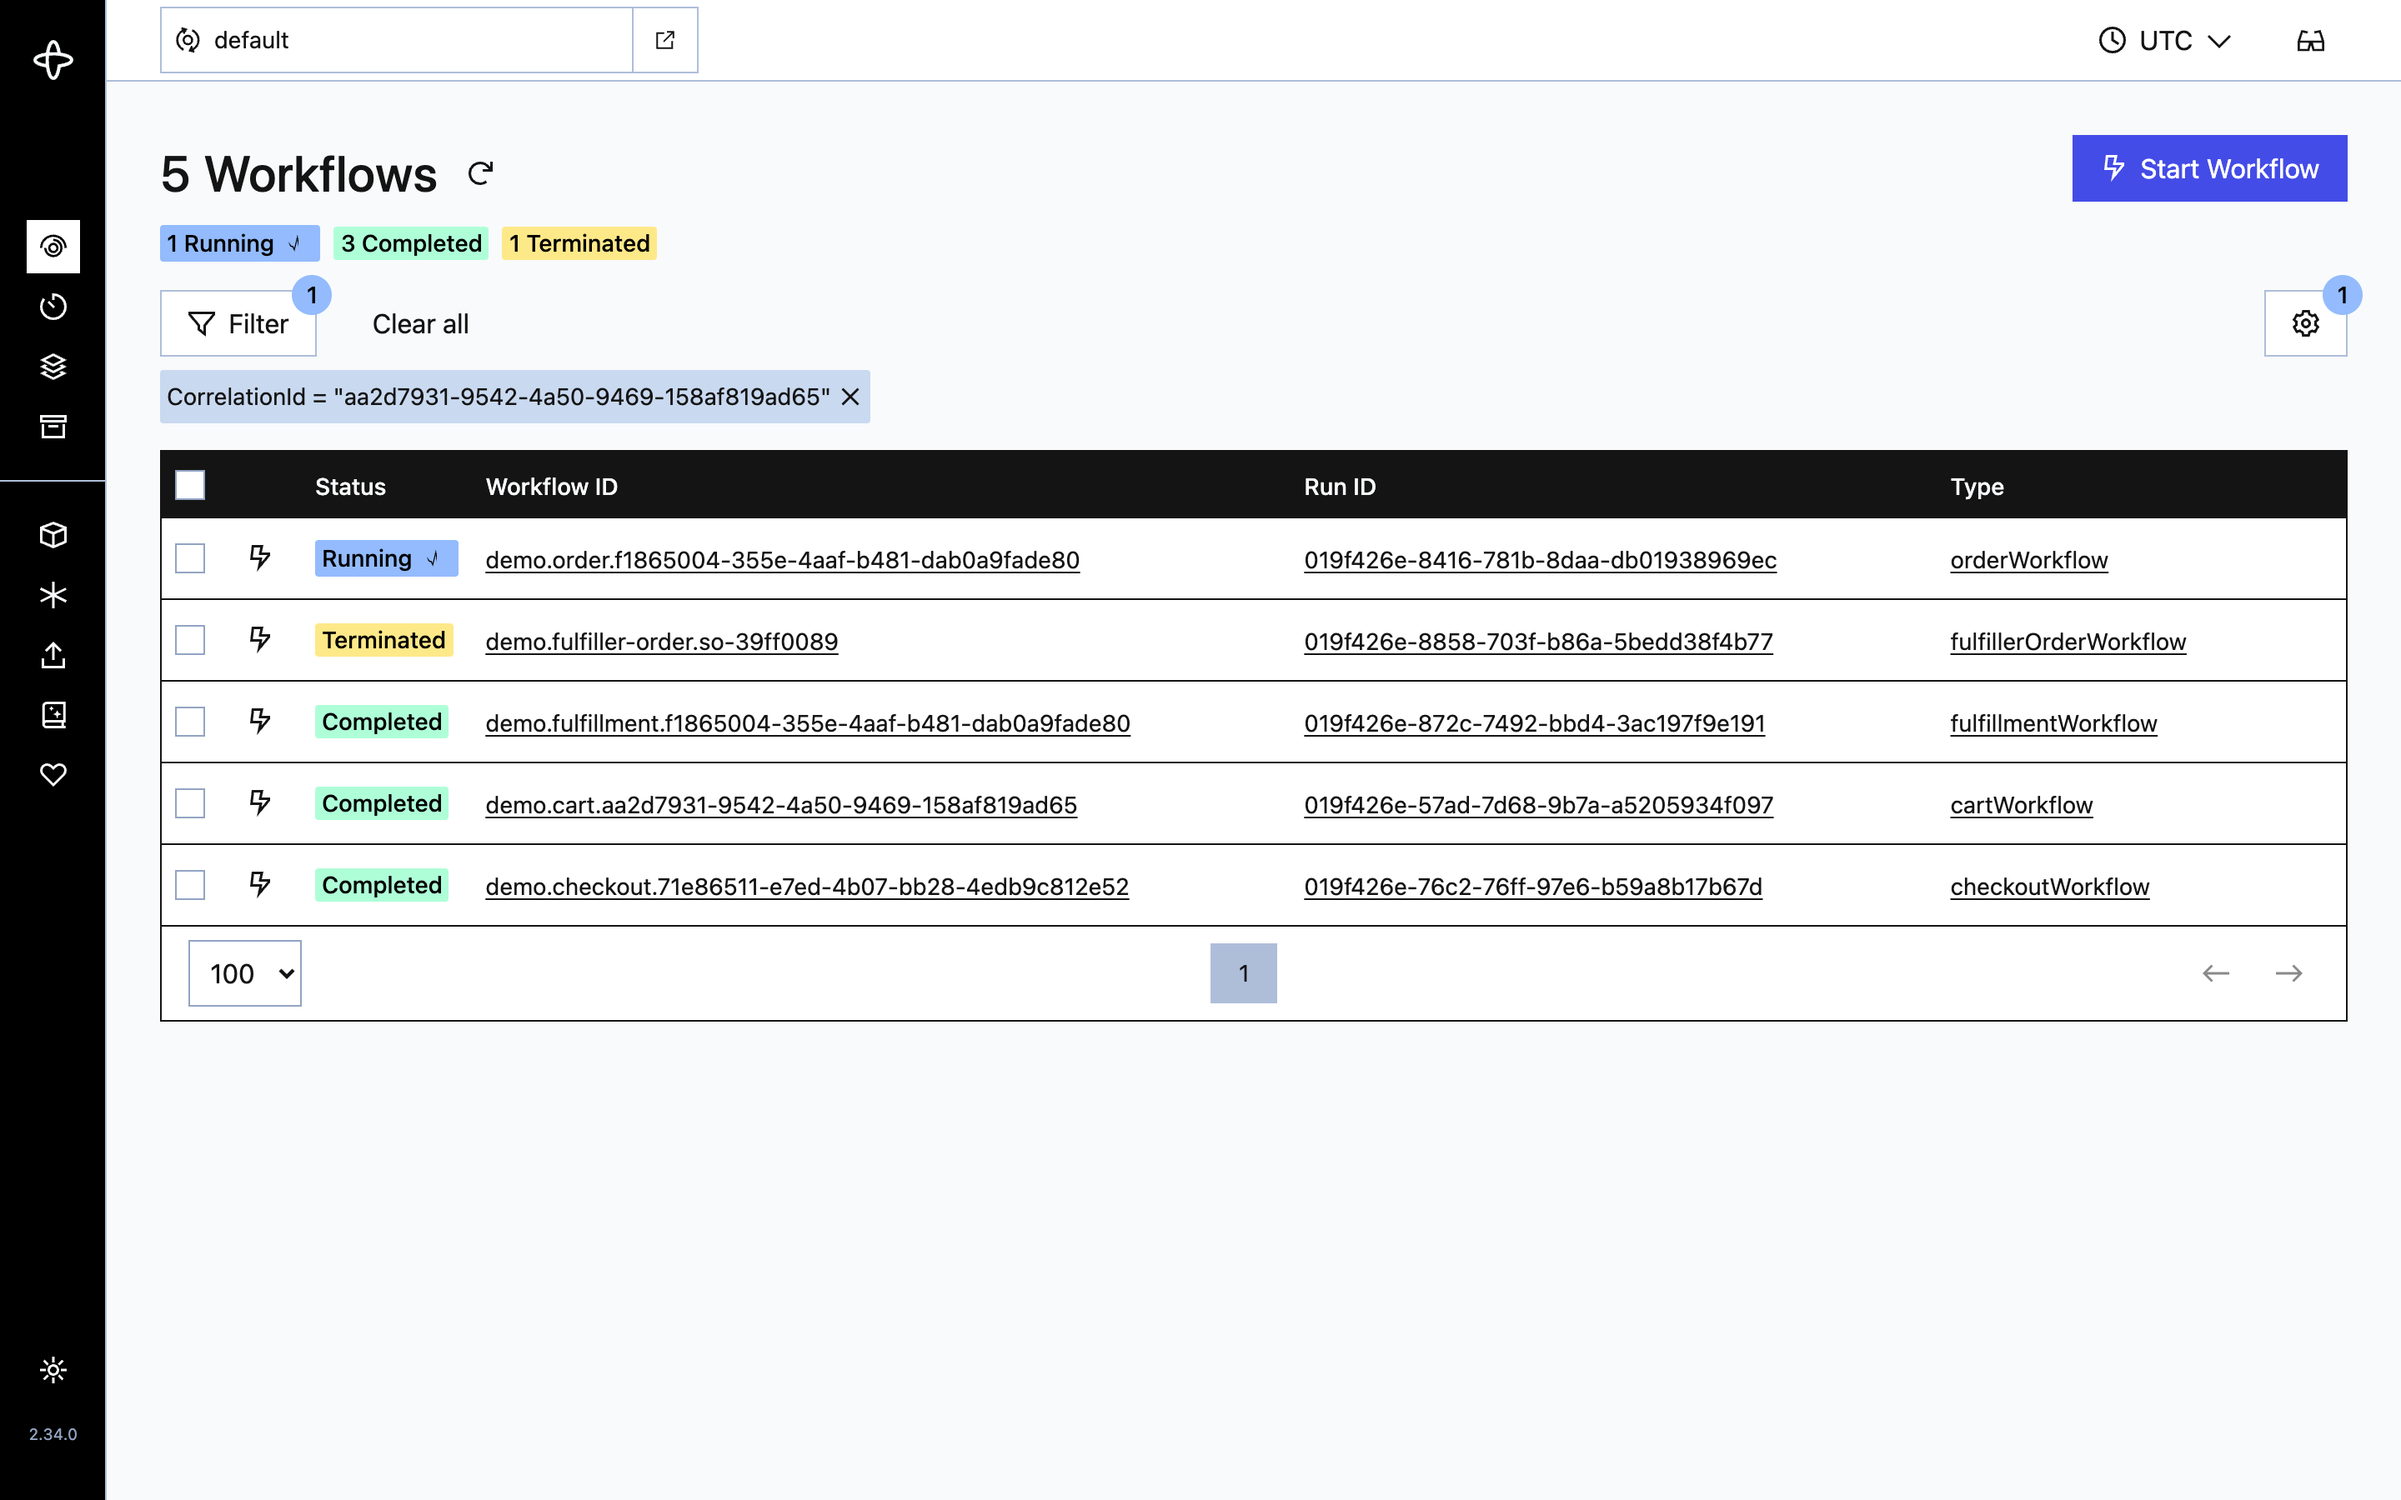
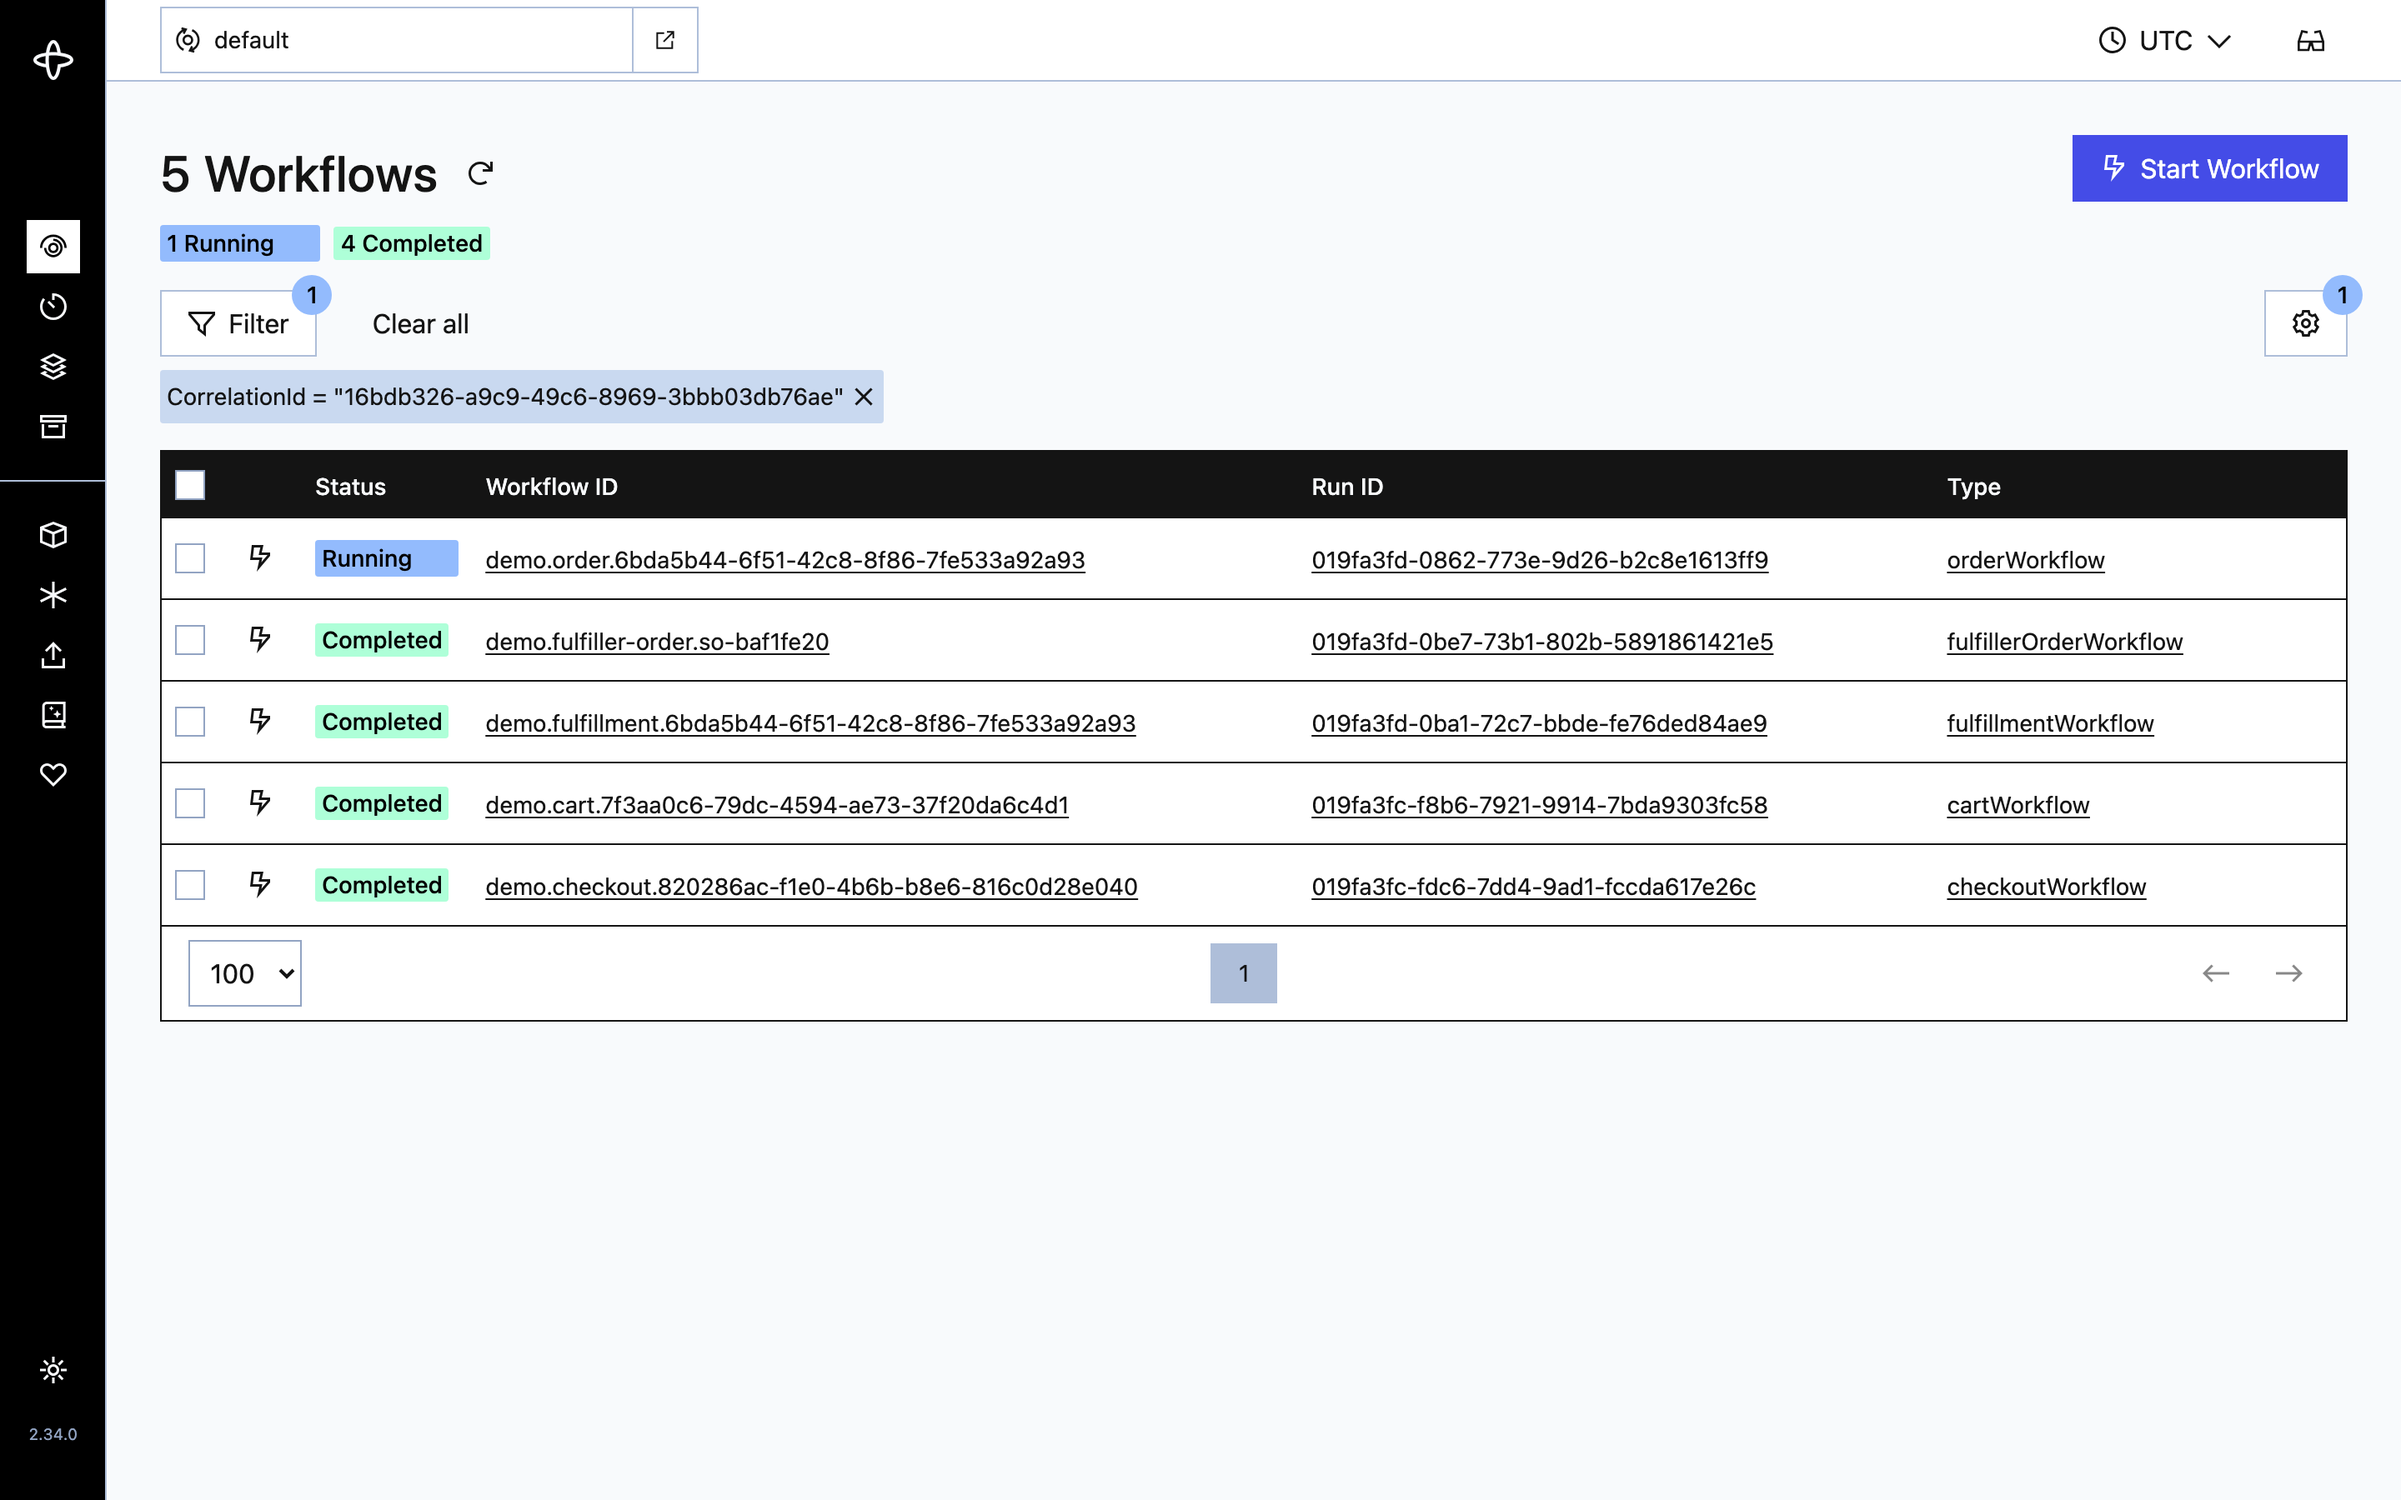
docs: refresh README screenshots from a live run
Retake all four screenshots (storefront, checkout, order-trace,
temporal-ui) at the same 2880x1800 geometry. The order-trace shot now
shows the Inventory journal and Communications panes added since the
originals were captured, and the caption/alt text mention them.

diff --git a/README.md b/README.md
@@ -16,9 +16,9 @@ this system on the TypeScript SDK — then the
 [State Machine Reference](docs/reference/state-machine-diagrams.md), auto-generated from source and
 kept fresh by CI.
 
-![Order Trace tool showing one order's journey across five parallel workflows](docs/images/order-trace.png)
+![Order Trace tool showing one order's journey across five parallel workflows, plus its inventory journal and customer emails](docs/images/order-trace.png)
 
-_The built-in Order Trace tool: one order's full cross-domain lifecycle — cart → checkout → OMS → fulfillment → fulfiller order — reconstructed from workflow state transitions recorded to Cassandra._
+_The built-in Order Trace tool: one order's full cross-domain lifecycle — cart → checkout → OMS → fulfillment → fulfiller order — reconstructed from workflow state transitions recorded to Cassandra, alongside the correlation-keyed inventory journal and every email sent to the customer._
 
 > **Note:** This demo is derived from a much more comprehensive e-commerce platform currently under active development. It is a standalone extraction designed to showcase Temporal patterns without the full platform's multi-tenant, multi-supplier, and plugin architecture.
 
